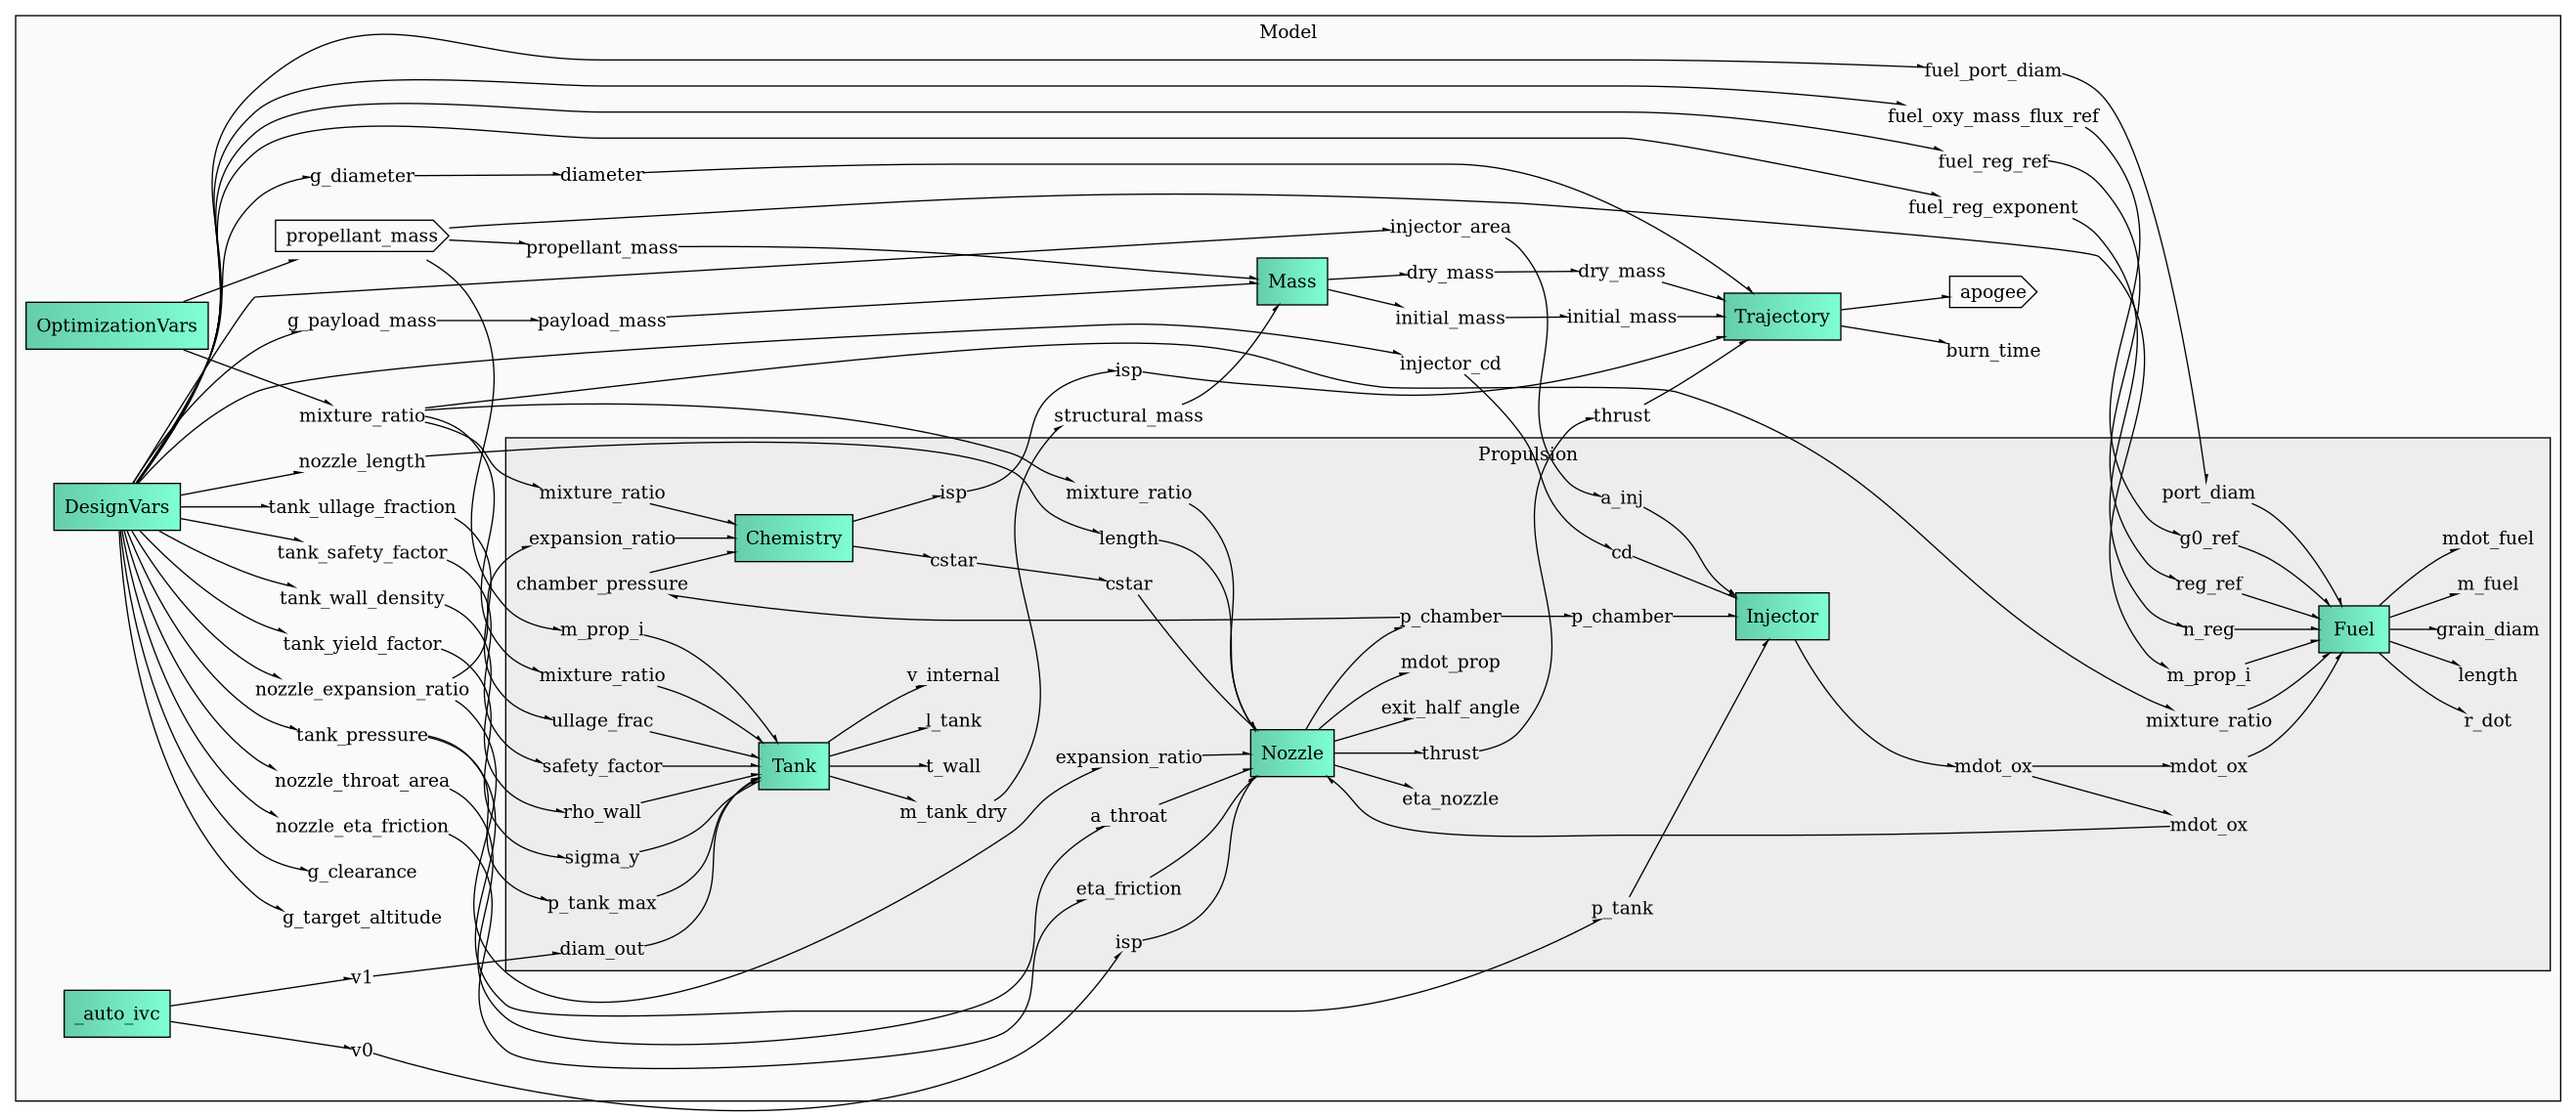
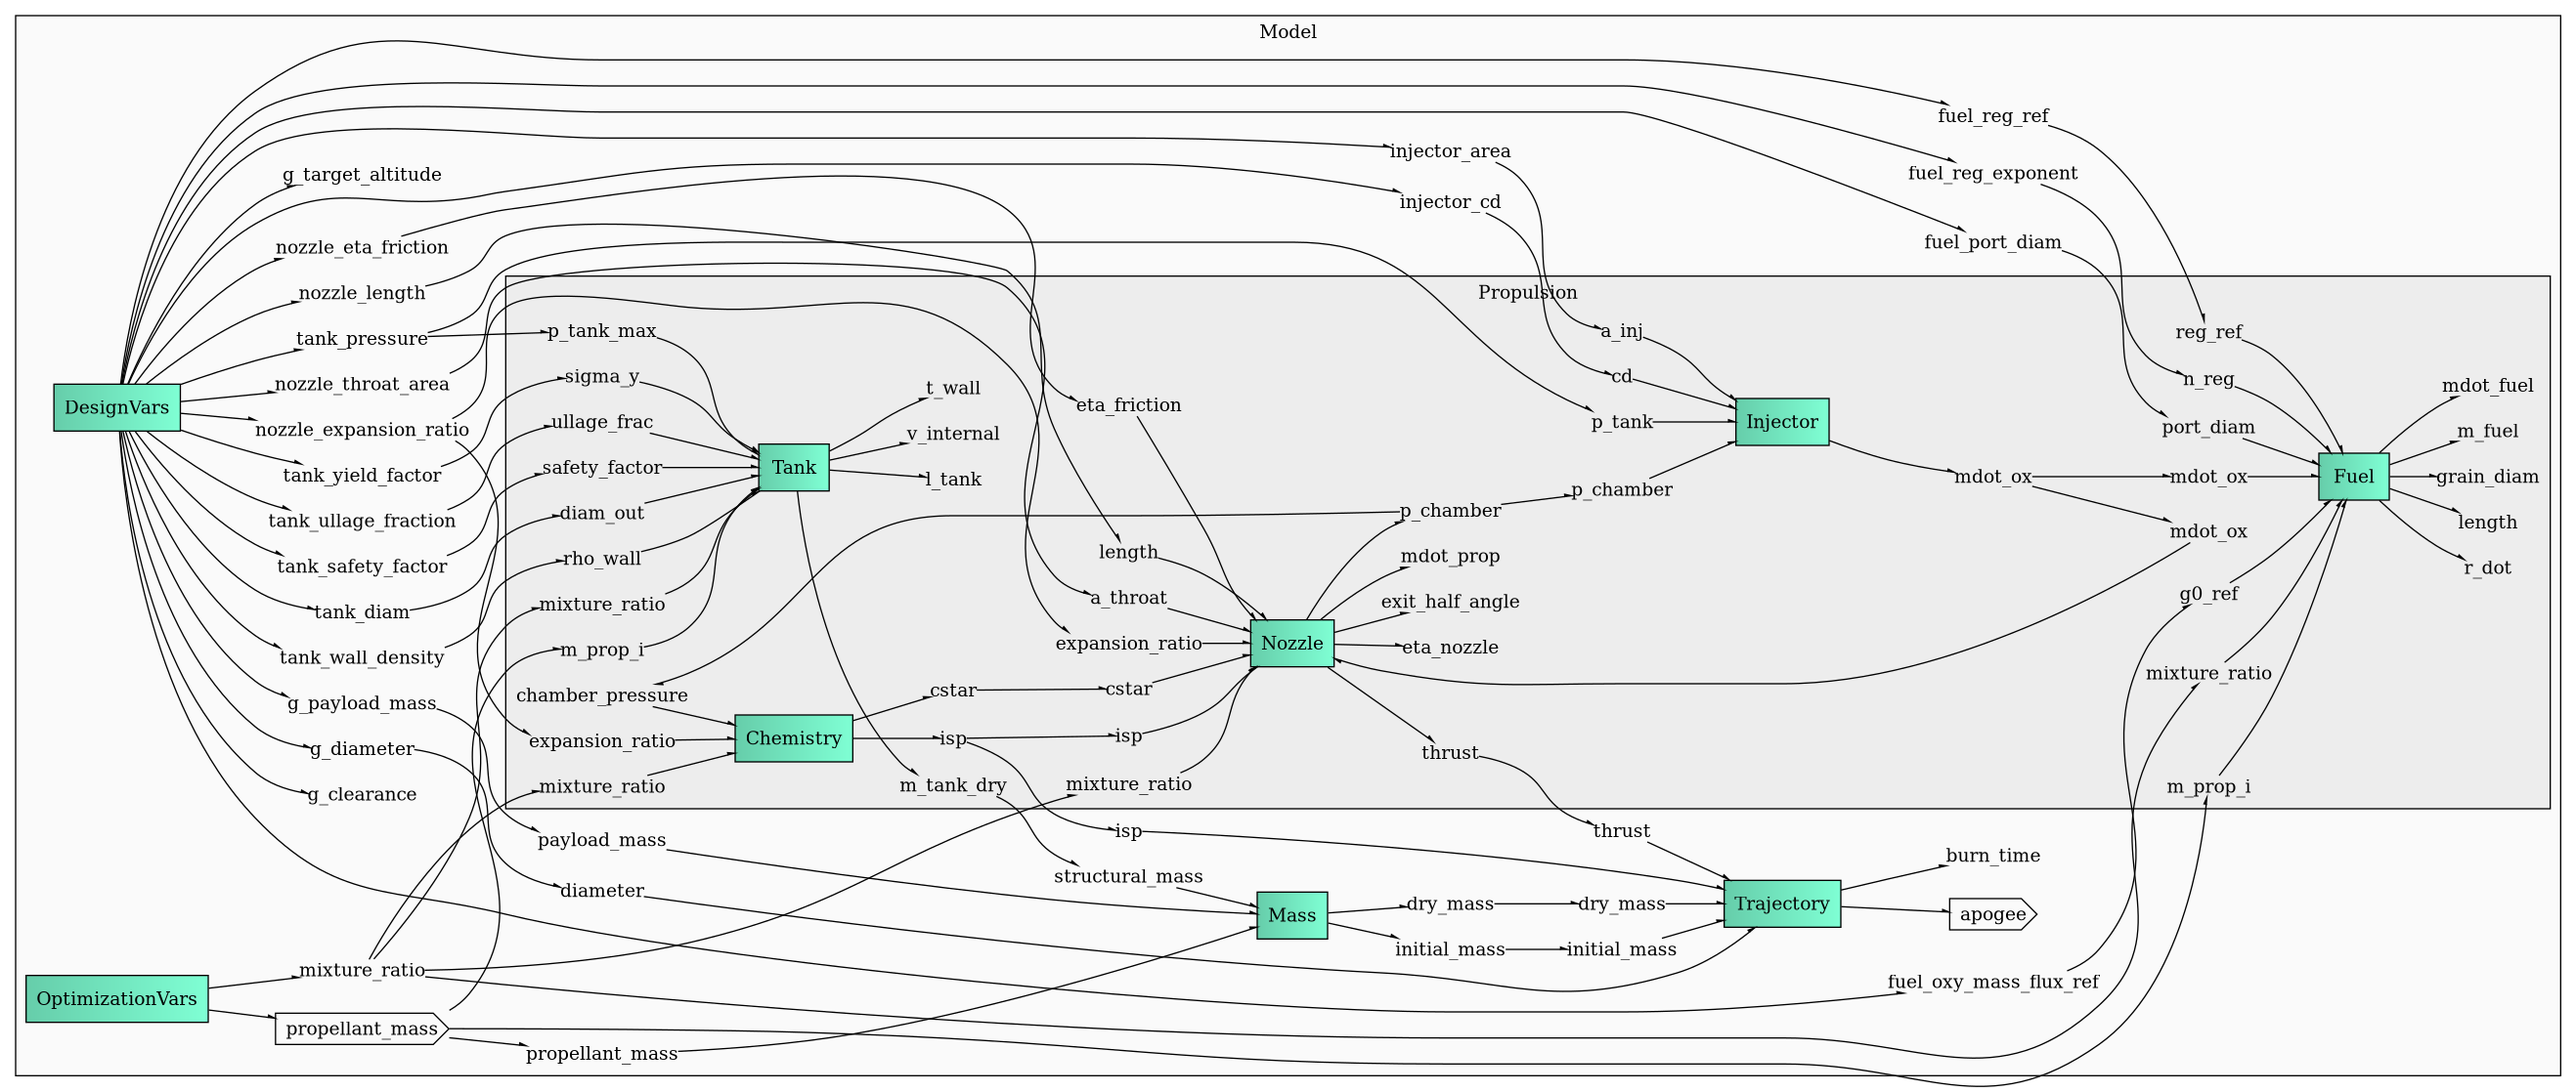
Rewiring

diff --git a/modules/BEARS_Rocket/group_rocket.py b/modules/BEARS_Rocket/group_rocket.py
@@ -43,6 +43,7 @@ class RocketGroup(Group):
 		#       here we specify the pressure in units of bar used by the team
 		#       and let MDAO convert automatically on component boundary
 		ivc.add_output("tank_pressure",          val=70,     units="bar")
+		ivc.add_output("tank_diam",              val=0.15,   units="m")
 		ivc.add_output("tank_safety_factor",     val=2.0)
 		ivc.add_output("tank_ullage_fraction",   val=0.1)
 		ivc.add_output("tank_yield_factor",      val=276e6,  units="Pa")
@@ -89,6 +90,7 @@ class RocketGroup(Group):
 		#region Connections
 		# - Tank
 		self.connect("DesignVars.tank_pressure",          "Propulsion.tank_pressure")
+		self.connect("DesignVars.tank_diam",              "Propulsion.tank_diam")
 		self.connect("DesignVars.tank_safety_factor",     "Propulsion.tank_safety_factor")
 		self.connect("DesignVars.tank_ullage_fraction",   "Propulsion.tank_ullage_frac")
 		self.connect("DesignVars.tank_yield_factor",      "Propulsion.tank_yield_factor")

diff --git a/modules/BEARS_Rocket/group_prop.py b/modules/BEARS_Rocket/group_prop.py
@@ -111,6 +111,7 @@ class PropulsionGroup(Group):
 		self.connect("Injector.mdot_ox", "Fuel.mdot_ox")
 		self.connect("Injector.mdot_ox", "Nozzle.mdot_ox")
 		self.connect("Chemistry.cstar",  "Nozzle.cstar")
+		self.connect("chem_isp",         "Nozzle.isp")
 		#endregion
 
 		#region Solvers
